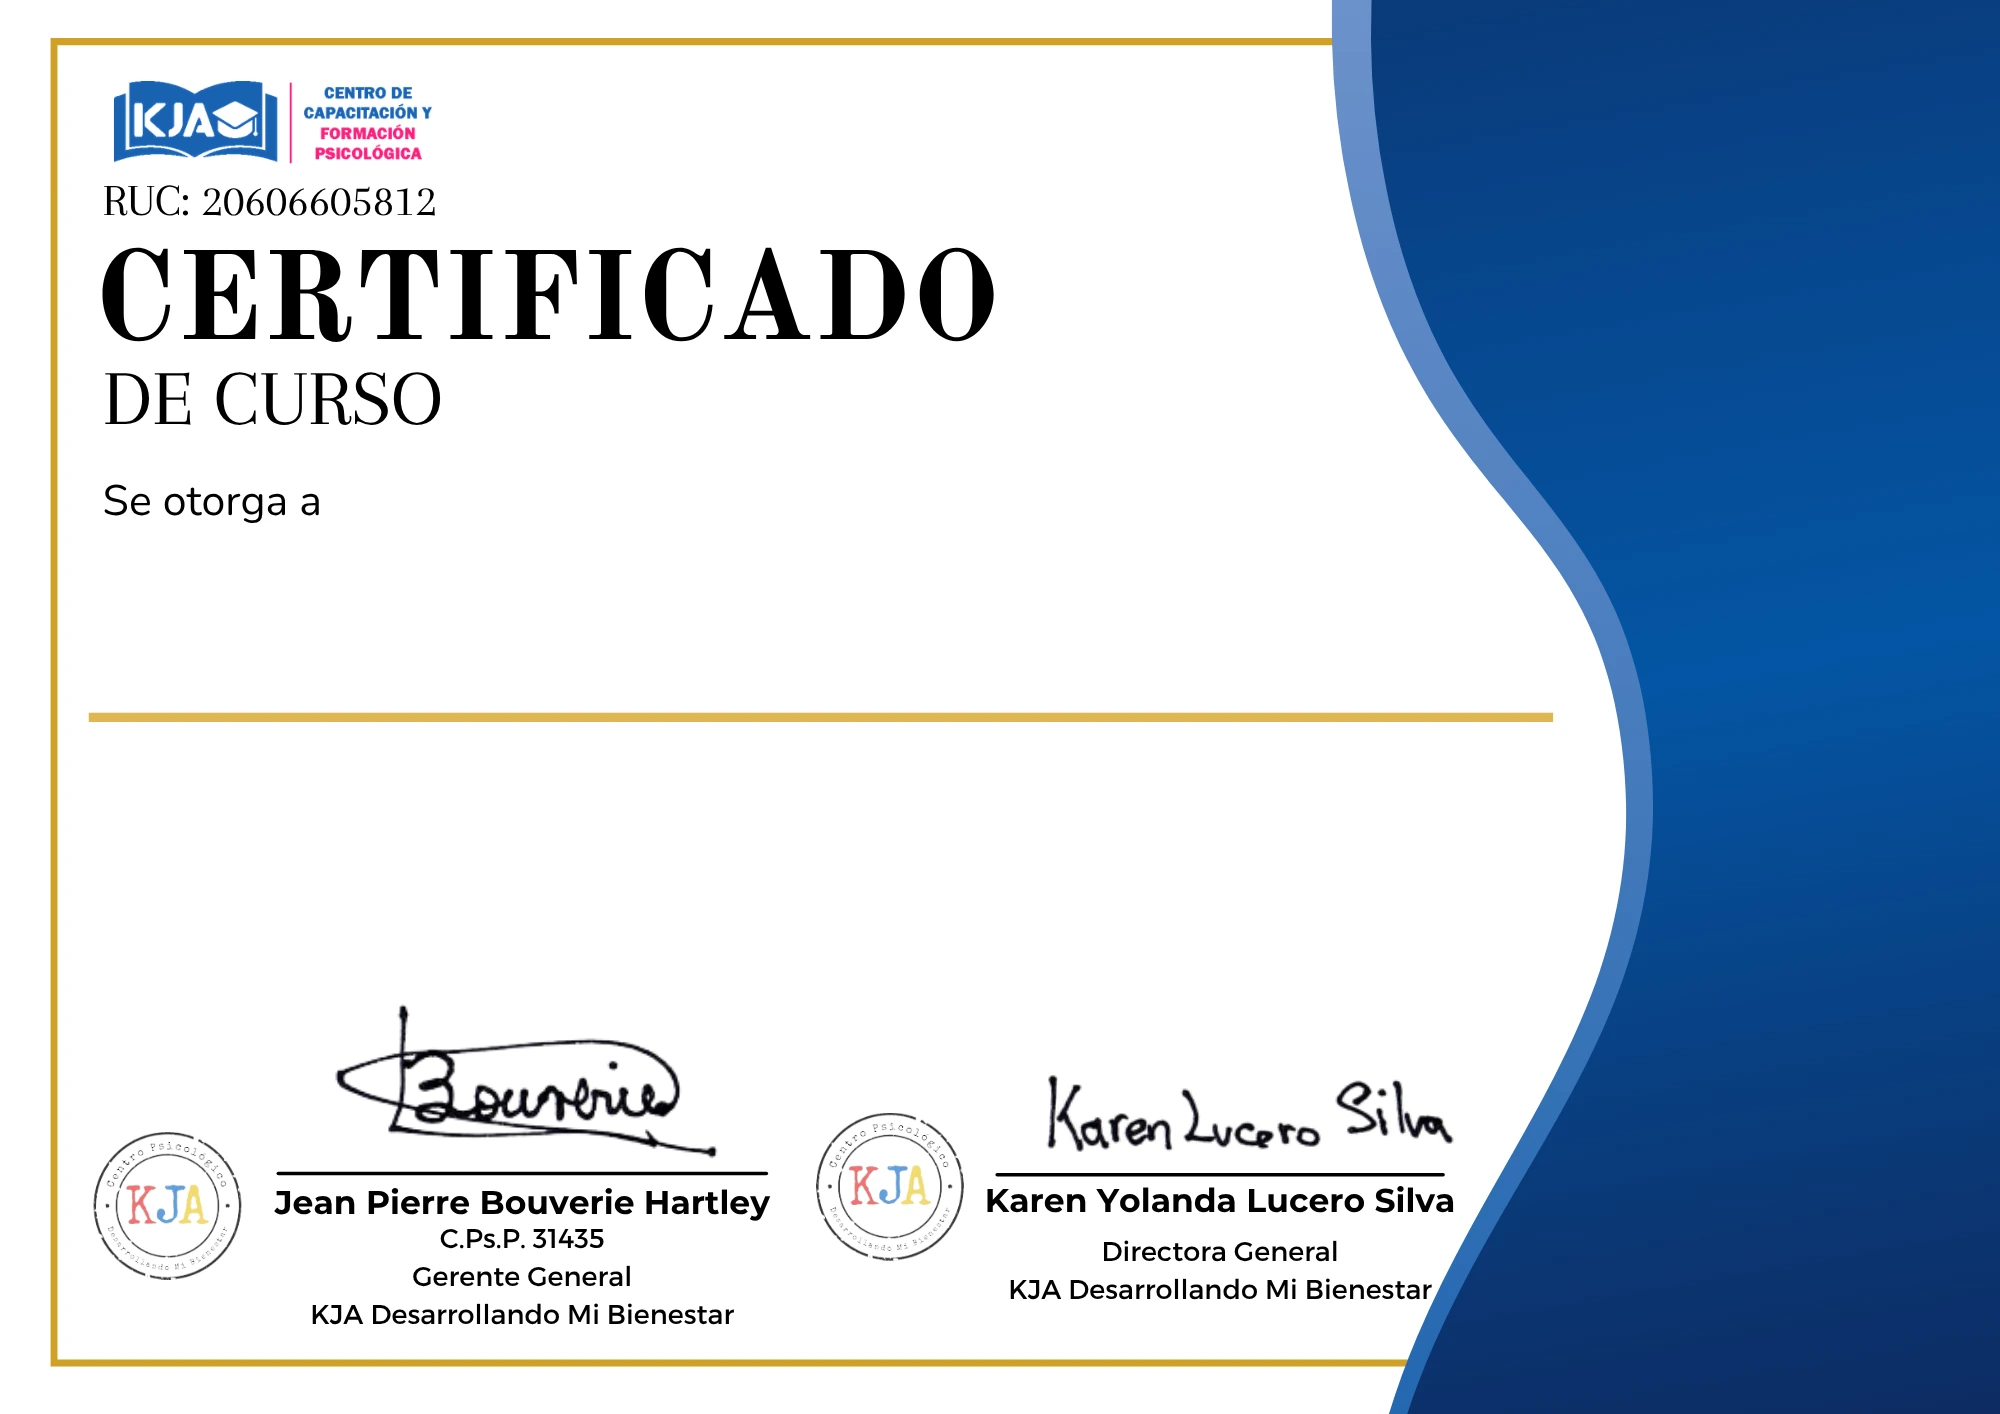
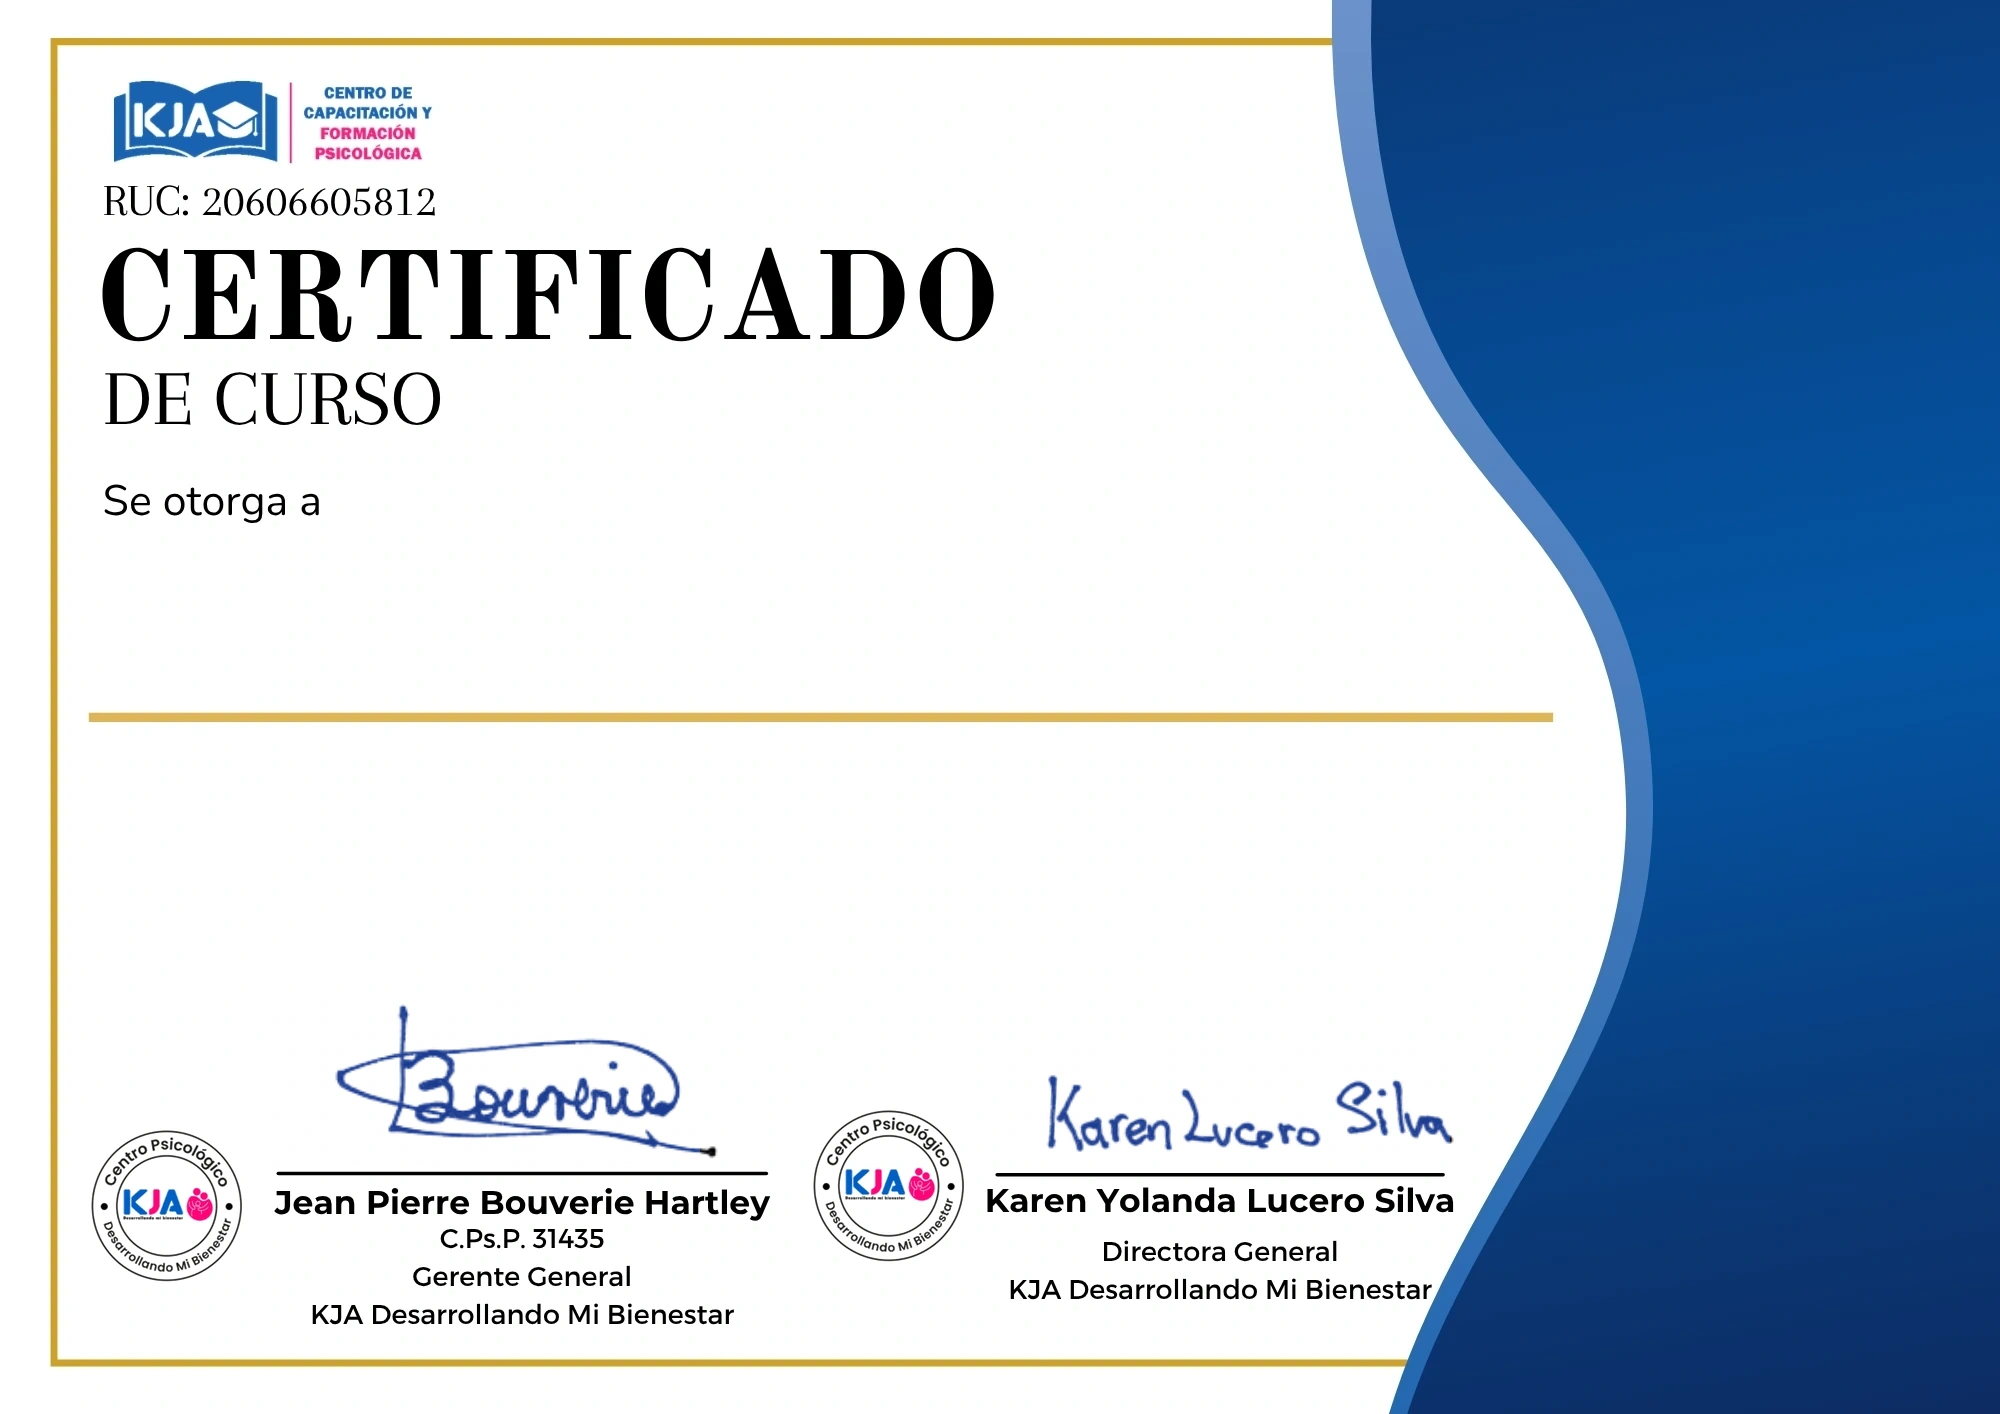
fix(certificados): actualiza el sello institucional y recolorea firmas a azul de lapicero
Sello nuevo en las 4 plantillas (taller/curso/especialización/constancia),
15% más chico que la primera versión; se borra el área del sello anterior
antes de pegar el nuevo para que no queden restos visibles. Firmas de
Bouverie y Karen Lucero recoloreadas de negro a azul de lapicero
(veracidad ante clientes), preservando el trazo original. Cache-busting
?v=N en cert-render.js para que los cambios de plantilla se vean sin
depender del caché del navegador.

diff --git a/certificados/cert-render.js b/certificados/cert-render.js
@@ -36,7 +36,7 @@
 
   const TIPOS = {
     taller:{
-      plantilla:'Certificado_taller/PLANTILLA_CERTIFICADO_TALLER.webp',
+      plantilla:'Certificado_taller/PLANTILLA_CERTIFICADO_TALLER.webp?v=4',
       etiquetaTitulo:'Nombre del taller', fechas:'simple',
       nombre:{cx:1000, cy:675, maxW:1600, font:ROMANA, size:108, weight:400, color:'#071F70', upper:true, lh:108, align:'center'},
       cuerpo:{x:234, topY:912, maxW:1532, size:31, lh:46, color:'#2b2b2b', align:'justify'},
@@ -47,7 +47,7 @@
                  {t:` con una duración de ${d.duracion} horas académicas, realizado durante el periodo del ${d.fInicio}.`}]
     },
     curso:{
-      plantilla:'Certificado_cursos/PLANTILLA_CERTIFICADO_CURSOS.webp',
+      plantilla:'Certificado_cursos/PLANTILLA_CERTIFICADO_CURSOS.webp?v=3',
       etiquetaTitulo:'Nombre del curso', fechas:'rango',
       nombre:{cx:780, cy:662, maxW:1340, font:SCRIPT, size:104, weight:400, color:'#000000', lh:110, align:'center'},
       cuerpo:{x:120, topY:800, maxW:1300, size:31, lh:46, color:'#2b2b2b', align:'justify'},
@@ -58,7 +58,7 @@
                  {t:` con una duración de ${d.duracion} horas académicas, realizado durante el periodo del ${d.fInicio}, hasta el ${d.fFin}.`}]
     },
     especializacion:{
-      plantilla:'Certiicado_curso_especializacion/PLANTILLA_CERTIFICADO_CURSO_ESPECIALIZACION.webp',
+      plantilla:'Certiicado_curso_especializacion/PLANTILLA_CERTIFICADO_CURSO_ESPECIALIZACION.webp?v=3',
       etiquetaTitulo:'Nombre del curso de especialización', fechas:'rango',
       nombre:{cx:1005, cy:615, maxW:1700, font:SCRIPT, size:96, weight:400, color:'#1a1a1a', lh:100, align:'center'},
       cuerpo:{x:256, topY:725, maxW:1490, size:31, lh:46, color:'#2b2b2b', align:'justify'},
@@ -69,7 +69,7 @@
                  {t:` con una duración de ${d.duracion} horas académicas, realizado durante el periodo del ${d.fInicio}, hasta el ${d.fFin}.`}]
     },
     constancia:{
-      plantilla:'Certificado_constancia_taller_presencial/PLANTILLA_CERTIFICADO_TALLER_PRESENCIAL.webp',
+      plantilla:'Certificado_constancia_taller_presencial/PLANTILLA_CERTIFICADO_TALLER_PRESENCIAL.webp?v=3',
       etiquetaTitulo:'Nombre del taller', fechas:'simple',
       nombre:{cx:780, cy:660, maxW:1450, font:SCRIPT, size:92, weight:400, color:'#000000', lh:96, align:'center'},
       cuerpo:{x:160, topY:790, maxW:1380, size:31, lh:46, color:'#2b2b2b', align:'justify'},
